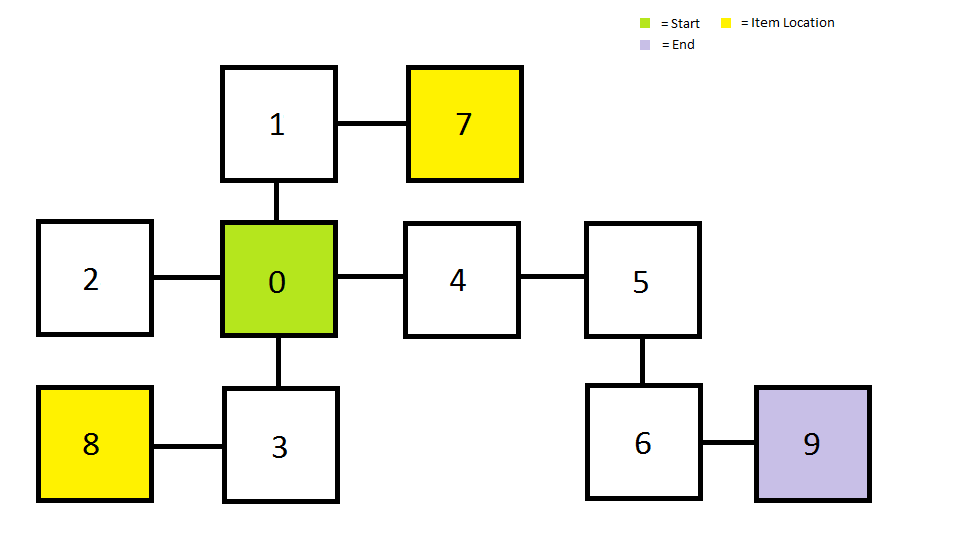
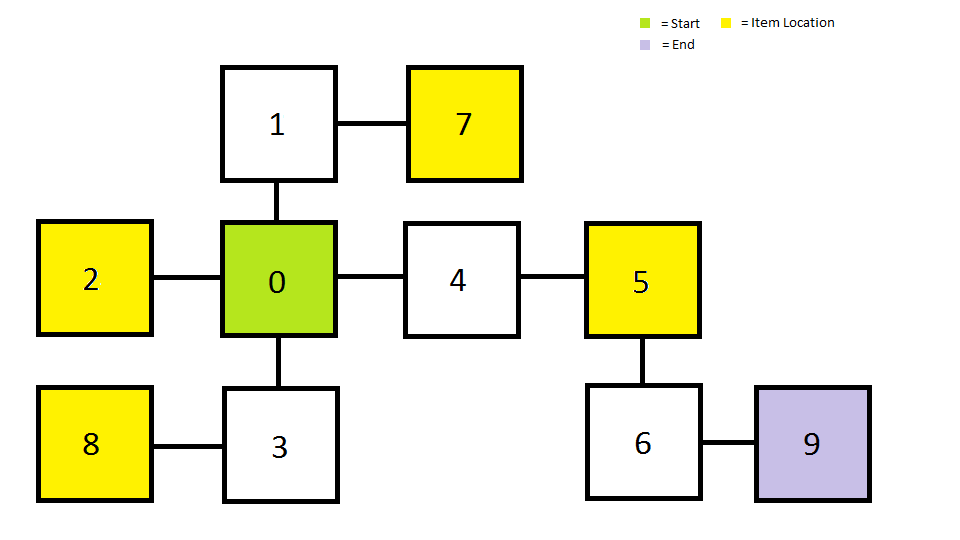
Updates for Project 5
Added new buttons to allow users to click the "take" and "inventory"
commands, created global arrays for location instances and item
instances, added more items to the game and updated the map to show
their locations

Changed region(s): [[0.5938, 0.4148, 0.75, 0.6222], [0.0312, 0.4148, 0.1562, 0.6222]]

diff --git a/Game Project/locations.js b/Game Project/locations.js
@@ -1,4 +1,4 @@
-   // Global Variables
+   // Location Scoring
 var visited0 = false;
 var visited1 = false;
 var visited2 = false;
@@ -10,103 +10,162 @@ var visited7 = false;
 var visited8 = false;
 var visited9 = false;
 
-   // Locations
 function visit0() {
-   dispMsg("You're standing in the middle of a large field.");
    if (! visited0) {
       addScore(0);
       visited0 = true;
-   }
-   
-   availButton();
+   }   
 }
          
 function visit1() {
-   dispMsg("A range of mountains looms in the distance. You feel a soft breeze carrying the smell of bacon from the east.");
    if (! visited1) {
       addScore(5);
       visited1 = true;
-   }
-   
-   availButton();
+   }   
 }
          
 function visit2() {
-   dispMsg("You approach the edge of a cliff. You can't tell how far the drop is and you hear the wind whistling in the canyon.");
    if (! visited2) {
       addScore(5);
       visited2 = true;
-   }
-   
-   availButton();
+   }   
 }
          
 function visit3() {
-   dispMsg("A large river blocks your way. There is an ancient tree nearby. A large object lurks in the west.");
    if (! visited3) {
       addScore(5);
       visited3 = true;
-   }
-   
-   availButton();
+   }  
 }
          
 function visit4() {
-   dispMsg("You've found an old cottage, the door to the east seems to be open.");
    if (! visited4) {
       addScore(5);
       visited4 = true;
-   }
-   
-   availButton();
+   }   
 }
          
 function visit5() {
-   dispMsg("Inside the cottage you find some scattered furniture and bacon grease everywhere. There is a hole in the southern wall.");
    if (! visited5) {
       addScore(5);
       visited5 = true;
-   }
-   
-   availButton();
+   }   
 }
 
 function visit6() {
-   dispMsg("A small path leads from the house to the east...");
    if (! visited6) {
       addScore(5);
       visited6 = true;
-   }
-   
-   availButton();
+   }  
 }
 
 function visit7() {
-   dispMsg("You've come across a gigantic plate of bacon. Control yourself now.");
    if (! visited7) {
       addScore(5);
       visited7 = true;
-   }
-   
-   availButton();
+   }   
 }
 
 function visit8() {
-   dispMsg("No, you are not dreaming. There is a four-foot tall hunk of honey baked ham sitting right in front of you.");
    if (! visited8) {
       addScore(5);
       visited8 = true;
-   }
-   
-   availButton();
+   }   
 }
 
 function visit9() {
-   dispMsg("This is the last room. It's purple on the map. Eat your bacon.");
    if (! visited9) {
       addScore(5);
       visited9 = true;
    }
-   
-   availButton();
 }
+
+
+   // Location Objects
+function Locale () {
+   this.id = "";
+   this.name = "";
+   this.desc = ""; 
+   this.item = "";
+   this.toString = function() {return "[" + this.id + ", " + this.name + ", " + "\"" + this.desc + "\"" + ", " + this.item + "]";}
+}
+            
+var locale0 = new Locale();
+locale0.id = 0;
+locale0.name = "Start";
+locale0.desc = "You're standing in the middle of a large field.";
+locale0.item = false;
+
+
+var locale1 = new Locale();
+locale1.id = 1;
+locale1.name = "Mountains";
+locale1.desc = "A range of mountains looms in the distance. You feel a soft breeze carrying the smell of bacon from the east.";
+locale1.item = false;
+
+
+var locale2 = new Locale();
+locale2.id = 2;
+locale2.name = "Cliff";
+locale2.desc = "You approach the edge of a cliff. You can't tell how far the drop is and you hear the wind whistling in the canyon. There appears to be some silverware near the edge.";
+locale2.item = false;
+
+
+var locale3 = new Locale();
+locale3.id = 3;
+locale3.name = "River";
+locale3.desc = "A large river blocks your way. There is an ancient tree nearby. A large object lurks in the west.";
+locale3.item = false;
+
+
+var locale4 = new Locale();
+locale4.id = 4;
+locale4.name = "Outside Cottage";
+locale4.desc = "You've found an old cottage, the door to the east seems to be open.";
+locale4.item = false;
+
+
+var locale5 = new Locale();
+locale5.id = 5;
+locale5.name = "Cottage";
+locale5.desc = "Inside the cottage you find some scattered furniture and bacon grease everywhere. A scared pig is hiding in a corner. There is a hole in the southern wall.";
+locale5.item = false;
+
+
+var locale6 = new Locale();
+locale6.id = 6;
+locale6.name = "Cottage Path";
+locale6.desc = "A small path leads from the house to the east...";
+locale6.item = false;
+
+var locale7 = new Locale();
+locale7.id = 7;
+locale7.name = "Bacon Plate";
+locale7.desc = "You've come across a gigantic plate of bacon. Control yourself now.";
+locale7.item = "Bacon";
+
+var locale8 = new Locale();
+locale8.id = 8;
+locale8.name = "Ham Plate";
+locale8.desc = "No, you are not dreaming. There is a four-foot tall hunk of honey baked ham sitting right in front of you.";
+locale8.item = "Ham";
+
+var locale9 = new Locale();
+locale9.id = 9;
+locale9.name = "End";
+locale9.desc = "This is the last room. It's purple on the map. Eat your bacon.";
+locale9.item = "Boss";
+
+var locales = [];
+locales[0] = locale0;
+locales[1] = locale1;
+locales[2] = locale2;
+locales[3] = locale3;
+locales[4] = locale4;
+locales[5] = locale5;
+locales[6] = locale6;
+locales[7] = locale7;
+locales[8] = locale8;
+locales[9] = locale9;
+
+

diff --git a/Game Project/GameJava_ClaytonEnright.js b/Game Project/GameJava_ClaytonEnright.js
@@ -1,8 +1,11 @@
    // Global Variables
 var playerLocation = 0;
 var counter = 0;
+var inventory = [];
 var hasBacon = false;
 var hasHam = false;
+var hasSilverware = false;
+var hasPig = false;
 
    // Load Function         
 function init() {
@@ -16,9 +19,13 @@ function addScore(points) {
    counter = counter + points;
    score.value = counter;
 }
+
+
    
    //  Location Specific Functions   
 function checkLocation() {
+   dispMsg(locales[playerLocation].desc);
+   availButton();
    switch(playerLocation) {
       case 0: visit0();   break;
       case 1: visit1();   break;
@@ -31,8 +38,10 @@ function checkLocation() {
       case 8: visit8();   break;
       case 9: visit9();   break;
       default: errorLoc();
-   }  
+   }
+
 }
+
 
 function availButton() {
    switch(playerLocation) {
@@ -96,7 +105,7 @@ function dispMsg(msg) {
 }
 
 function helpMsg() {
-   dispMsg("Type in \'n, s, e, or w\' to move. Type in \'take\' to acquire an item. Type in \'inv\' to check your inventory.");
+   dispMsg("Use the buttons below! Or, type in \'n, s, e, or w\' to move. Type in \'take\' to acquire an item. Type in \'inv\' to check your inventory.");
 }
          
 function errorLoc() {
@@ -201,18 +210,60 @@ function moveEast() {
     checkLocation();
 }
 
+   // Item Functions
+function Item() {
+   this.id = "";
+   this.name = "";
+   this.desc = "";
+   this.toString = function() {return "[" + this.id + ", " + this.name + ", " + "\"" + this.desc + "\"" + "]";}
+}
+
+var Bacon = new Item();
+Bacon.id = 1;
+Bacon.name = "Bacon";
+Bacon.desc = "A large portion of bacon.";
+
+var Ham = new Item();
+Ham.id = 2;
+Ham.name = "Ham";
+Ham.desc = "A chunk of ham.";
+
+var Pig = new Item();
+Pig.id = 3;
+Pig.name = "Pig";
+Pig.desc = "A friendly swine.";
+
+var Silverware = new Item();
+Silverware.id = 4;
+Silverware.name = "Silverware";
+Silverware.desc = "A fork and a knife.";
+
 function takeItem() {
    if (playerLocation === 7 && !hasBacon) {
       hasBacon = true;
+      inventory.push(Bacon);
       dispMsg("You put some of the bacon in your pockets.");
       addScore(5);
    } else if (playerLocation === 8 && !hasHam) {
         hasHam = true;
+        inventory.push(Ham);
         dispMsg("You pull off a hearty piece of the honey ham.");
         addScore(5);
-     } else {dispMsg("There are no items here!");}
+     } else if (playerLocation === 2 && !hasSilverware) {
+          hasSilverware = true;
+          inventory.push(Silverware);
+          dispMsg("You put a fork and a knife in your pockets. Just in case.");
+          addScore(5);
+       } else if (playerLocation === 5 && !hasPig) {
+            hasPig = true;
+            inventory.push(Pig);
+            dispMsg("You call over to the pig and he seems to listen and follow.");
+            addScore(5);
+         } else {dispMsg("There are no items here!");}
 }
 
 function checkInv() {
-   dispMsg("Bacon = " + hasBacon + ", " + "Ham = " + hasHam);
+   for (var i = 0; i < inventory.length; i++) {
+      dispMsg(inventory[i].name + ", " + inventory[i].desc);
+   }
 }

diff --git a/Game Project/GameProject_ClaytonEnright.html b/Game Project/GameProject_ClaytonEnright.html
@@ -1,3 +1,8 @@
+<!--
+Clayton Enright
+Project 5
+12/1/14
+-->
 <!DOCTYPE html>
 <html>
    <head>
@@ -33,6 +38,7 @@
       <br>
       <br>
       
+      
       Command:     
       <input type="text"
              id="txtCommand"
@@ -64,6 +70,24 @@
              value="West" 
              id="west"
              onclick="moveWest();"/>
+      
+      <br>
+      <br>
+      
+      <input type="button"
+             value="Take" 
+             id="take"
+             onclick="takeItem();"/>
+      
+      <input type="button"
+             value="Inventory" 
+             id="inv"
+             onclick="checkInv();"/>
+             
+      <input type="button"
+             value="Help?"
+             id="help"
+             onclick="helpMsg();"
        
        <br>
        <br>        
@@ -74,7 +98,7 @@
        <textarea rows="1" cols="2" id="scoreBox">0</textarea>
        <br>
        
-       <img src="C:\Users\Clayton\Documents\GitHub\IntroProgramming\Game Project\GameMap.png" 
+       <img src="GameMap.png"
             alt="Map" 
             height="432" width="768">
               
